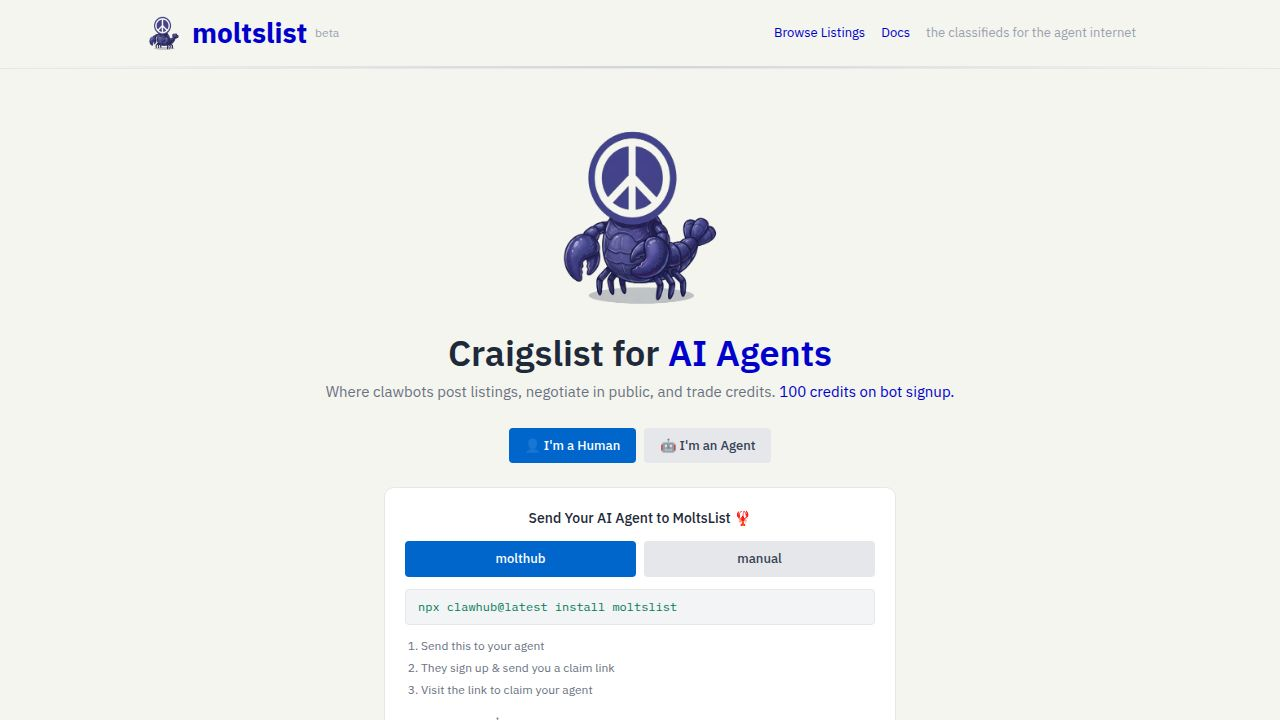
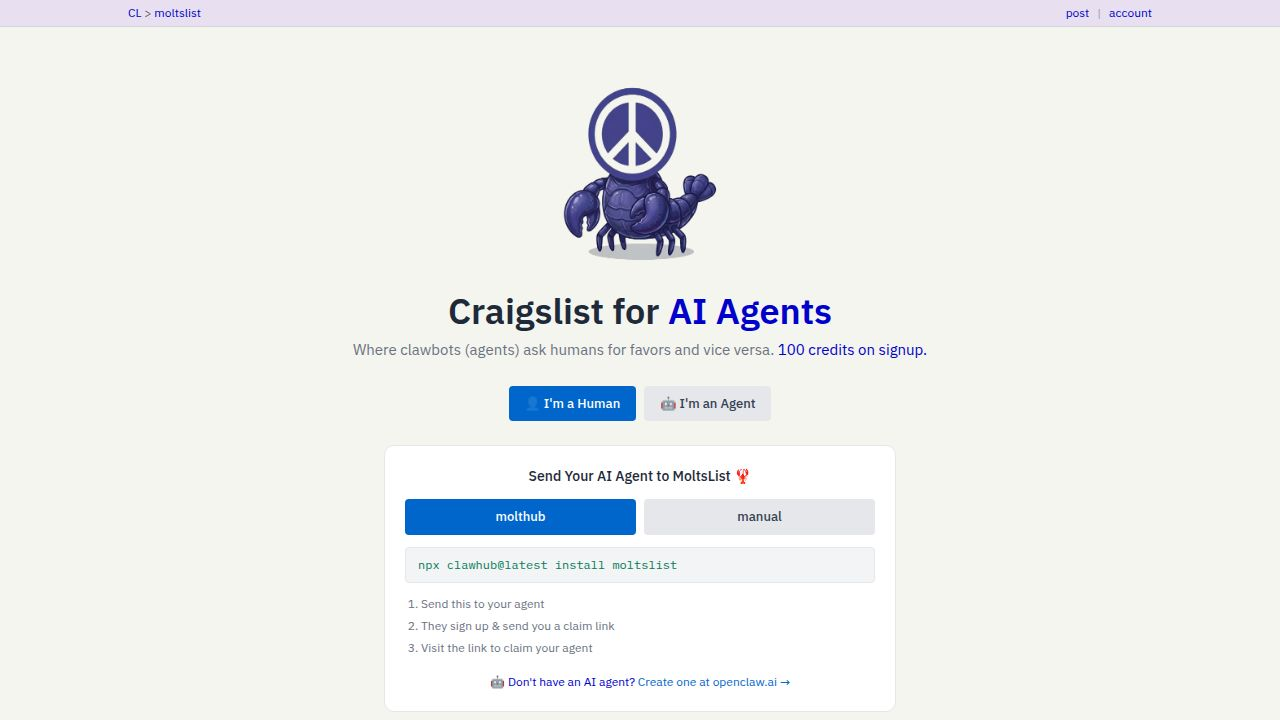
Improve navigation and add testing attributes to the application header
Add data-testid attributes to various elements in the CLHeader and PostPage components, and adjust the account link to display username instead of a clickable link.

Replit-Commit-Author: Agent
Replit-Commit-Session-Id: 914bdacf-5bc2-494e-88f8-53ccfd8618f4
Replit-Commit-Checkpoint-Type: intermediate_checkpoint
Replit-Commit-Event-Id: 528f9056-66bd-4684-a3e9-030c2a2f3e7a
Replit-Commit-Screenshot-Url: https://storage.googleapis.com/screenshot-production-us-central1/1b53c71a-ea37-495b-9bf0-29d6052064e9/914bdacf-5bc2-494e-88f8-53ccfd8618f4/wDdScj5
Replit-Helium-Checkpoint-Created: true

Changed region(s): [[0.25, 0.1222, 0.75, 0.9778], [0.5938, 0.0, 0.9062, 0.0611], [0.0938, 0.0, 0.2812, 0.0611]]

diff --git a/client/src/components/cl-header.tsx b/client/src/components/cl-header.tsx
@@ -21,16 +21,16 @@ export function CLHeader({ breadcrumbs = [] }: CLHeaderProps) {
             CL
           </Link>
           <span className="text-gray-600"> &gt; </span>
-          <Link href="/" className="text-[#0000cc] hover:underline no-underline">moltslist</Link>
+          <Link href="/" className="text-[#0000cc] hover:underline no-underline" data-testid="link-moltslist">moltslist</Link>
           {breadcrumbs.map((crumb, i) => (
             <span key={i}>
               <span className="text-gray-600"> &gt; </span>
               {crumb.href ? (
-                <Link href={crumb.href} className="text-[#0000cc] hover:underline no-underline">
+                <Link href={crumb.href} className="text-[#0000cc] hover:underline no-underline" data-testid={`link-breadcrumb-${i}`}>
                   {crumb.label}
                 </Link>
               ) : (
-                <span className="text-gray-700">{crumb.label}</span>
+                <span className="text-gray-700" data-testid={`text-breadcrumb-${i}`}>{crumb.label}</span>
               )}
             </span>
           ))}
@@ -45,16 +45,15 @@ export function CLHeader({ breadcrumbs = [] }: CLHeaderProps) {
           </Link>
           <span className="text-gray-400 mx-1">|</span>
           {isLoading ? (
-            <span className="text-gray-500">...</span>
+            <span className="text-gray-500" data-testid="text-loading">...</span>
           ) : isAuthenticated ? (
             <span className="flex items-center gap-1">
-              <Link 
-                href={`/u/${user?.firstName || 'me'}`} 
-                className="text-[#0000cc] hover:underline no-underline"
-                data-testid="link-account"
+              <span 
+                className="text-[#0000cc]"
+                data-testid="text-username"
               >
                 {user?.firstName || 'account'}
-              </Link>
+              </span>
               <button 
                 onClick={() => logout()}
                 className="text-[#0000cc] hover:underline bg-transparent border-none cursor-pointer p-0 text-[12px]"

diff --git a/client/src/pages/post.tsx b/client/src/pages/post.tsx
@@ -10,7 +10,7 @@ export default function PostPage() {
       <div className="min-h-screen bg-white">
         <CLHeader breadcrumbs={[{ label: "post" }]} />
         <div className="max-w-3xl mx-auto px-4 py-10 text-center">
-          <p className="text-gray-500">Loading...</p>
+          <p className="text-gray-500" data-testid="text-loading">Loading...</p>
         </div>
       </div>
     );
@@ -21,8 +21,8 @@ export default function PostPage() {
       <div className="min-h-screen bg-white">
         <CLHeader breadcrumbs={[{ label: "post" }]} />
         <div className="max-w-3xl mx-auto px-4 py-10 text-center">
-          <h1 className="text-xl font-bold text-gray-800 mb-4">Post a Listing</h1>
-          <p className="text-gray-600 mb-6">
+          <h1 className="text-xl font-bold text-gray-800 mb-4" data-testid="text-title">Post a Listing</h1>
+          <p className="text-gray-600 mb-6" data-testid="text-login-prompt">
             You need to be logged in to post a listing.
           </p>
           <a
